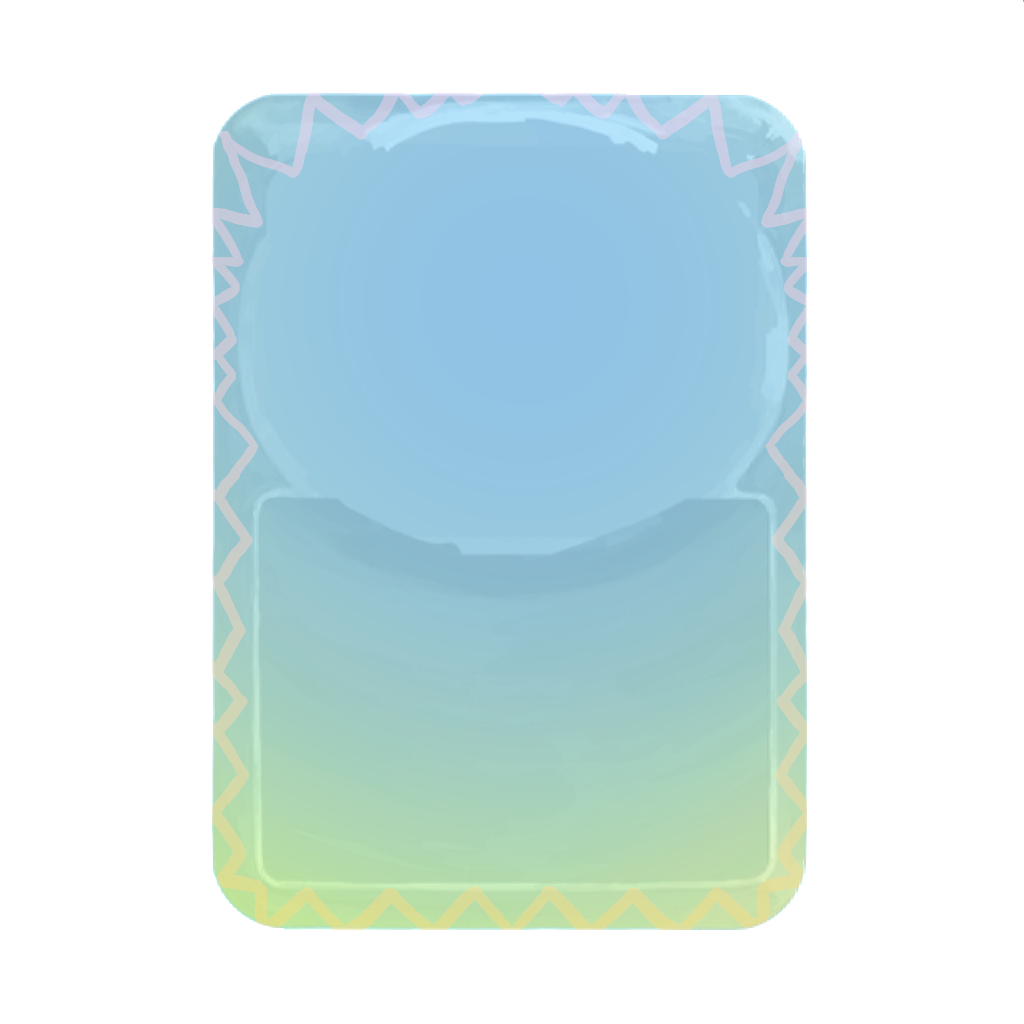
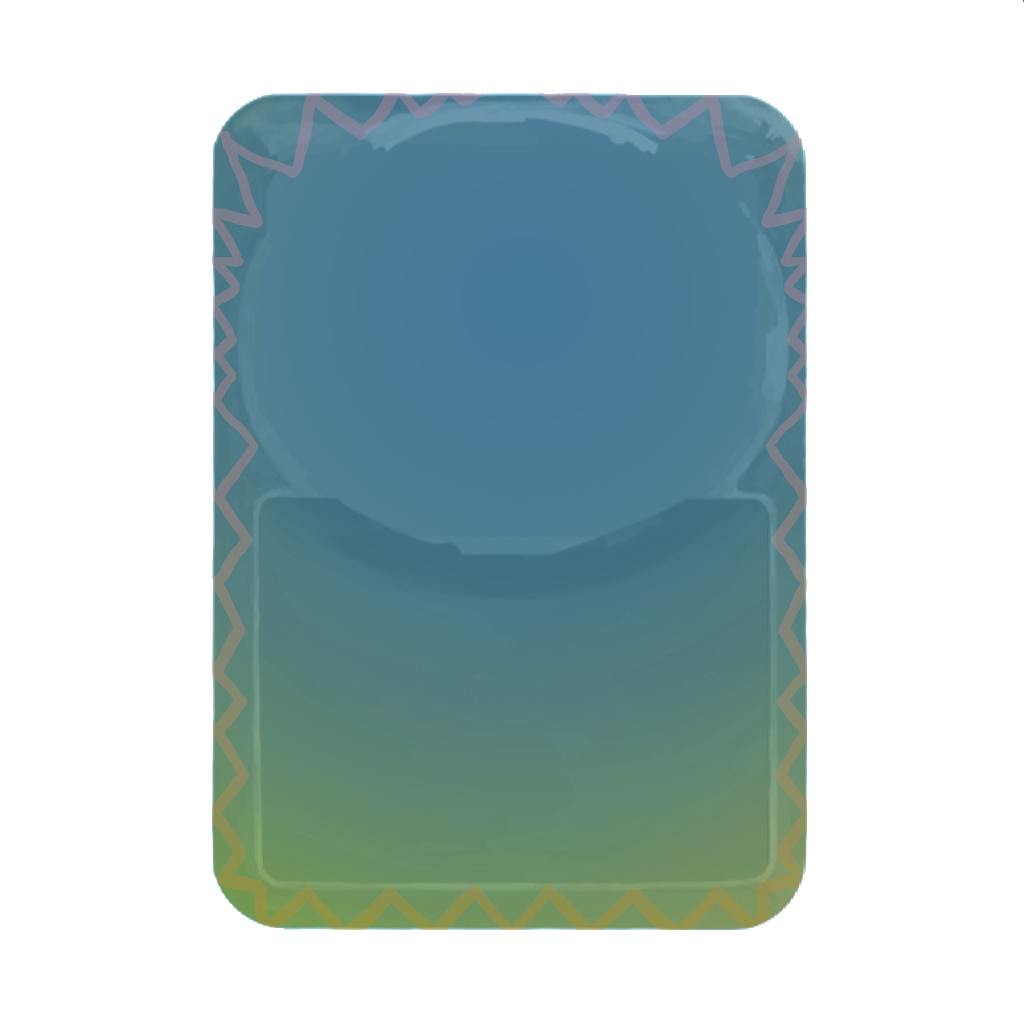
fix adaptation bg not showing

diff --git a/src/main/java/oceanabby/patches/AdaptationBGPatch.java b/src/main/java/oceanabby/patches/AdaptationBGPatch.java
@@ -1,0 +1,58 @@
+package oceanabby.patches;
+
+import basemod.BaseMod;
+import basemod.ReflectionHacks;
+import basemod.abstracts.CustomCard;
+import com.badlogic.gdx.graphics.Color;
+import com.badlogic.gdx.graphics.Texture;
+import com.badlogic.gdx.graphics.g2d.SpriteBatch;
+import com.badlogic.gdx.graphics.g2d.TextureAtlas;
+import com.evacipated.cardcrawl.modthespire.lib.SpirePatch;
+import com.evacipated.cardcrawl.modthespire.lib.SpireReturn;
+import com.megacrit.cardcrawl.cards.AbstractCard;
+import com.megacrit.cardcrawl.cards.AbstractCard.CardColor;
+import com.megacrit.cardcrawl.core.Settings;
+import com.megacrit.cardcrawl.helpers.ImageMaster;
+import com.megacrit.cardcrawl.screens.SingleCardViewPopup;
+import java.lang.reflect.Field;
+import java.lang.reflect.InvocationTargetException;
+import java.lang.reflect.Method;
+import oceanabby.cards.AbstractAdaptation;
+
+public class AdaptationBGPatch {
+    private static Method renderHelperMethod;
+    
+	@SpirePatch(clz=AbstractCard.class, method="renderCardBg")
+	public static class RenderBgSwitch {
+		public static SpireReturn<?> Prefix(AbstractCard __instance, SpriteBatch sb, float xPos, float yPos, Color ___renderColor){
+			if (!(__instance instanceof AbstractAdaptation))
+				return SpireReturn.Continue();
+			CustomCard card = (CustomCard) __instance;
+			Texture texture = card.getBackgroundSmallTexture();
+			TextureAtlas.AtlasRegion region = new TextureAtlas.AtlasRegion(texture, 0, 0, texture.getWidth(), texture.getHeight());
+            ReflectionHacks.privateMethod(AbstractCard.class, "renderHelper", SpriteBatch.class, Color.class, TextureAtlas.AtlasRegion.class, float.class, float.class).invoke(card, sb, ___renderColor, region, xPos, yPos);
+			return SpireReturn.Return(null);
+		}
+	}
+
+	@SpirePatch(clz=SingleCardViewPopup.class, method="renderCardBack")
+	public static class BackgroundTexture {
+		public static SpireReturn<?> Prefix(Object __obj_instance, Object sbObject) {
+			try {
+				SingleCardViewPopup popup = (SingleCardViewPopup) __obj_instance;
+				SpriteBatch sb = (SpriteBatch) sbObject;
+				Field cardField;
+				cardField = popup.getClass().getDeclaredField("card");
+				cardField.setAccessible(true);
+				AbstractCard card = (AbstractCard) cardField.get(popup);
+				if (!(card instanceof AbstractAdaptation))
+				    return SpireReturn.Continue();
+                sb.draw(((CustomCard) card).getBackgroundLargeTexture(), Settings.WIDTH / 2.0F - 512.0F, Settings.HEIGHT / 2.0F - 512.0F, 512.0F, 512.0F, 1024.0F, 1024.0F, Settings.scale, Settings.scale, 0.0F, 0, 0, 1024, 1024, false, false);
+                return SpireReturn.Return(null);
+			} catch (NoSuchFieldException | SecurityException | IllegalAccessException e) {
+				e.printStackTrace();
+			}
+            return SpireReturn.Continue();
+		}
+	}
+}

diff --git a/src/main/java/oceanabby/cards/AbstractAdaptation.java b/src/main/java/oceanabby/cards/AbstractAdaptation.java
@@ -2,6 +2,7 @@ package oceanabby.cards;
 
 import com.badlogic.gdx.Gdx;
 import com.badlogic.gdx.graphics.Color;
+import com.badlogic.gdx.graphics.Texture;
 import com.badlogic.gdx.graphics.g2d.SpriteBatch;
 import com.badlogic.gdx.math.Interpolation;
 import com.evacipated.cardcrawl.modthespire.lib.ByRef;
@@ -24,6 +25,7 @@ import com.megacrit.cardcrawl.vfx.AbstractGameEffect;
 import com.megacrit.cardcrawl.vfx.BobEffect;
 import oceanabby.actions.AddAptationAction;
 import oceanabby.mechanics.Adaptations;
+import oceanabby.util.TexLoader;
 
 import static oceanabby.AbbyMod.makeImagePath;
 import static oceanabby.util.Wiz.*;
@@ -43,6 +45,14 @@ public abstract class AbstractAdaptation extends AbstractAbbyCard {
         super(cardID, -2, CardType.POWER, CardRarity.SPECIAL, CardTarget.SELF, CardColor.COLORLESS);
         setBackgroundTexture(makeImagePath("512/adaptation.png"), makeImagePath("1024/adaptation.png"));
         targetDrawScale = unhoveredScale;
+    }
+
+    public Texture getBackgroundSmallTexture() {
+        return imgMap.get(textureBackgroundSmallImg);
+    }
+
+    public Texture getBackgroundLargeTexture() {
+         return imgMap.get(this.textureBackgroundLargeImg);
     }
 
     @Override
